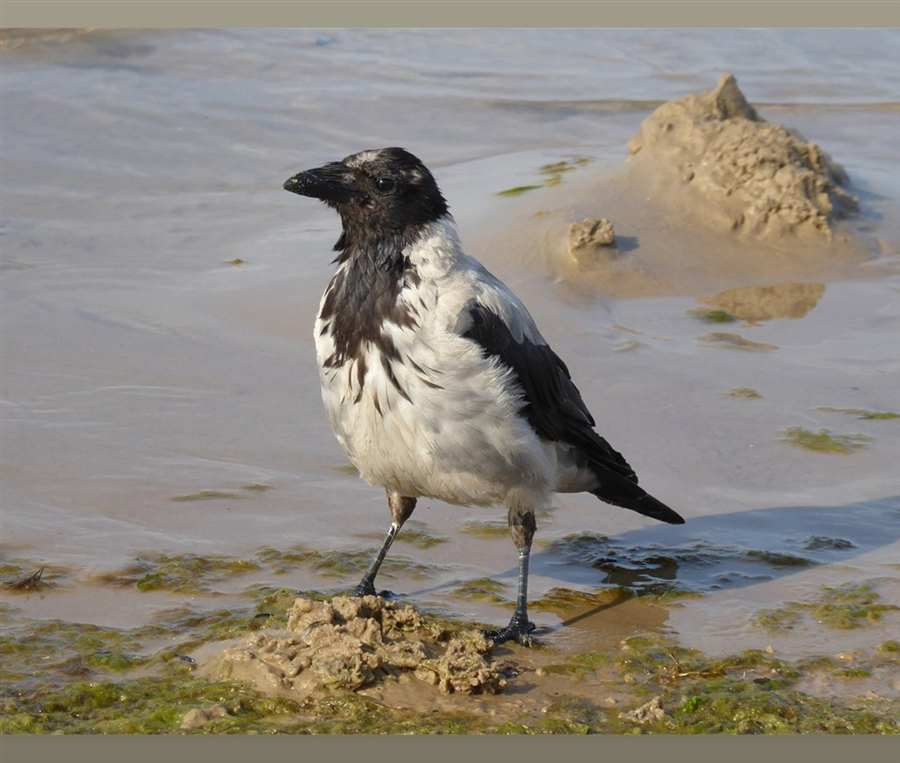
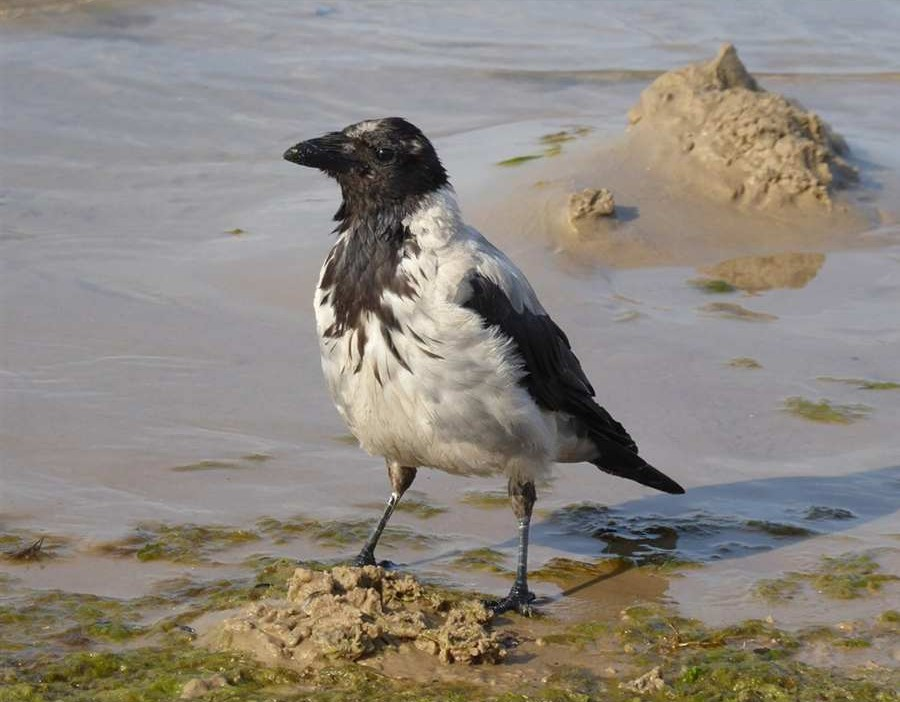
Птице: слике на картицама без празних трака; чавка са правом фотографијом
- suri-orao.jpg: одсечене маслинасте траке горе и доле (900×763 → 900×624).
- siva-vrana.jpg: одсечене светле траке горе и доле (900×763 → 900×702).
- Картица чавке је приказивала сиву врану (cavka.jpg); сада користи cavka-hero-local.jpg (Kurochkin, CC BY-SA 4.0), исту као страница врсте.
- ?v=20261020 на измењеним сликама.
- Провера: аутоматско тражење једнобојних трака на свих 64 локалне слике картица птица и 271 слици почетних страница биљака, инсеката, сисара, гљива и трофодинамике; Playwright 390/1300 px.

Claude-Session: https://claude.ai/code/session_01QzH2czW7WT6uH1rGcsFuV6

diff --git a/site/ptice/index.html b/site/ptice/index.html
@@ -733,8 +733,8 @@ const birds = [
     group: "grabljivice",
     pills: ["грабљивице", "ретка", "карст"],
     blurb: "Импресивна грабљивица која симболизује простране, мирне и добро очуване пределе.",
-    img: "/ptice/assets/ptice2/suri-orao.jpg",
-    fallback: "/ptice/assets/ptice2/suri-orao.jpg",
+    img: "/ptice/assets/ptice2/suri-orao.jpg?v=20261020",
+    fallback: "/ptice/assets/ptice2/suri-orao.jpg?v=20261020",
     url: "/ptice/suri-orao/"
   },
   {
@@ -793,8 +793,8 @@ const birds = [
     group: "vrane",
     pills: ["општа врста", "станарица", "вране"],
     blurb: "Прилагодљива и интелигентна врста отворених предела, рубова шума и насеља ширег подручја Рајца.",
-    img: "/ptice/assets/ptice2/siva-vrana.jpg",
-    fallback: "/ptice/assets/ptice2/siva-vrana.jpg",
+    img: "/ptice/assets/ptice2/siva-vrana.jpg?v=20261020",
+    fallback: "/ptice/assets/ptice2/siva-vrana.jpg?v=20261020",
     url: "/ptice/siva-vrana/"
   },
   {
@@ -903,8 +903,8 @@ const birds = [
     group: "vrane",
     pills: ["кућица", "колонијална", "вране"],
     blurb: "Друштвена мања врана која користи шупљине старих стабала и објеката; кутије имају смисла само као веће групне кутије.",
-    img: "/ptice/assets/ptice2/cavka.jpg",
-    fallback: "/ptice/assets/ptice2/cavka.jpg",
+    img: "/ptice/assets/ptice2/cavka-hero-local.jpg",
+    fallback: "/ptice/assets/ptice2/cavka-hero-local.jpg",
     url: "/ptice/cavka/"
   },
   {
